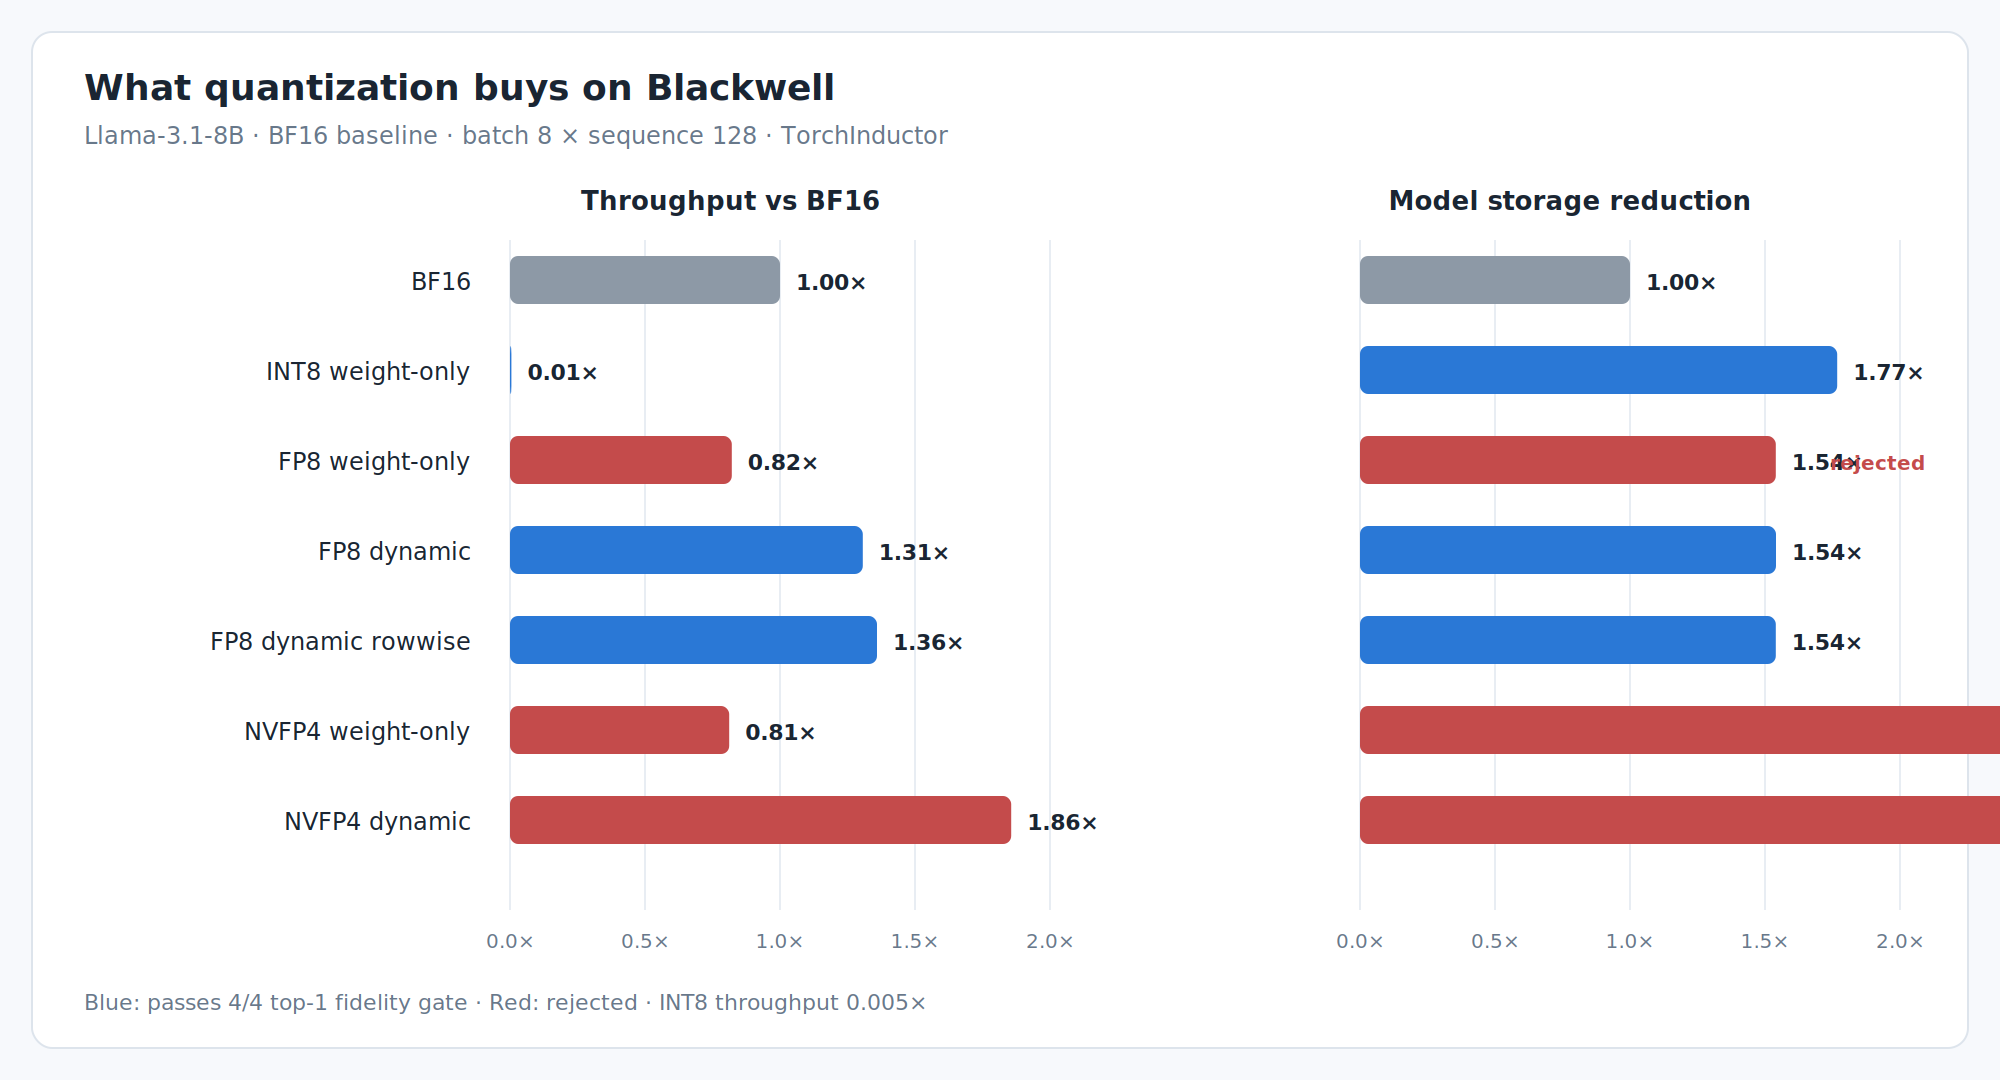
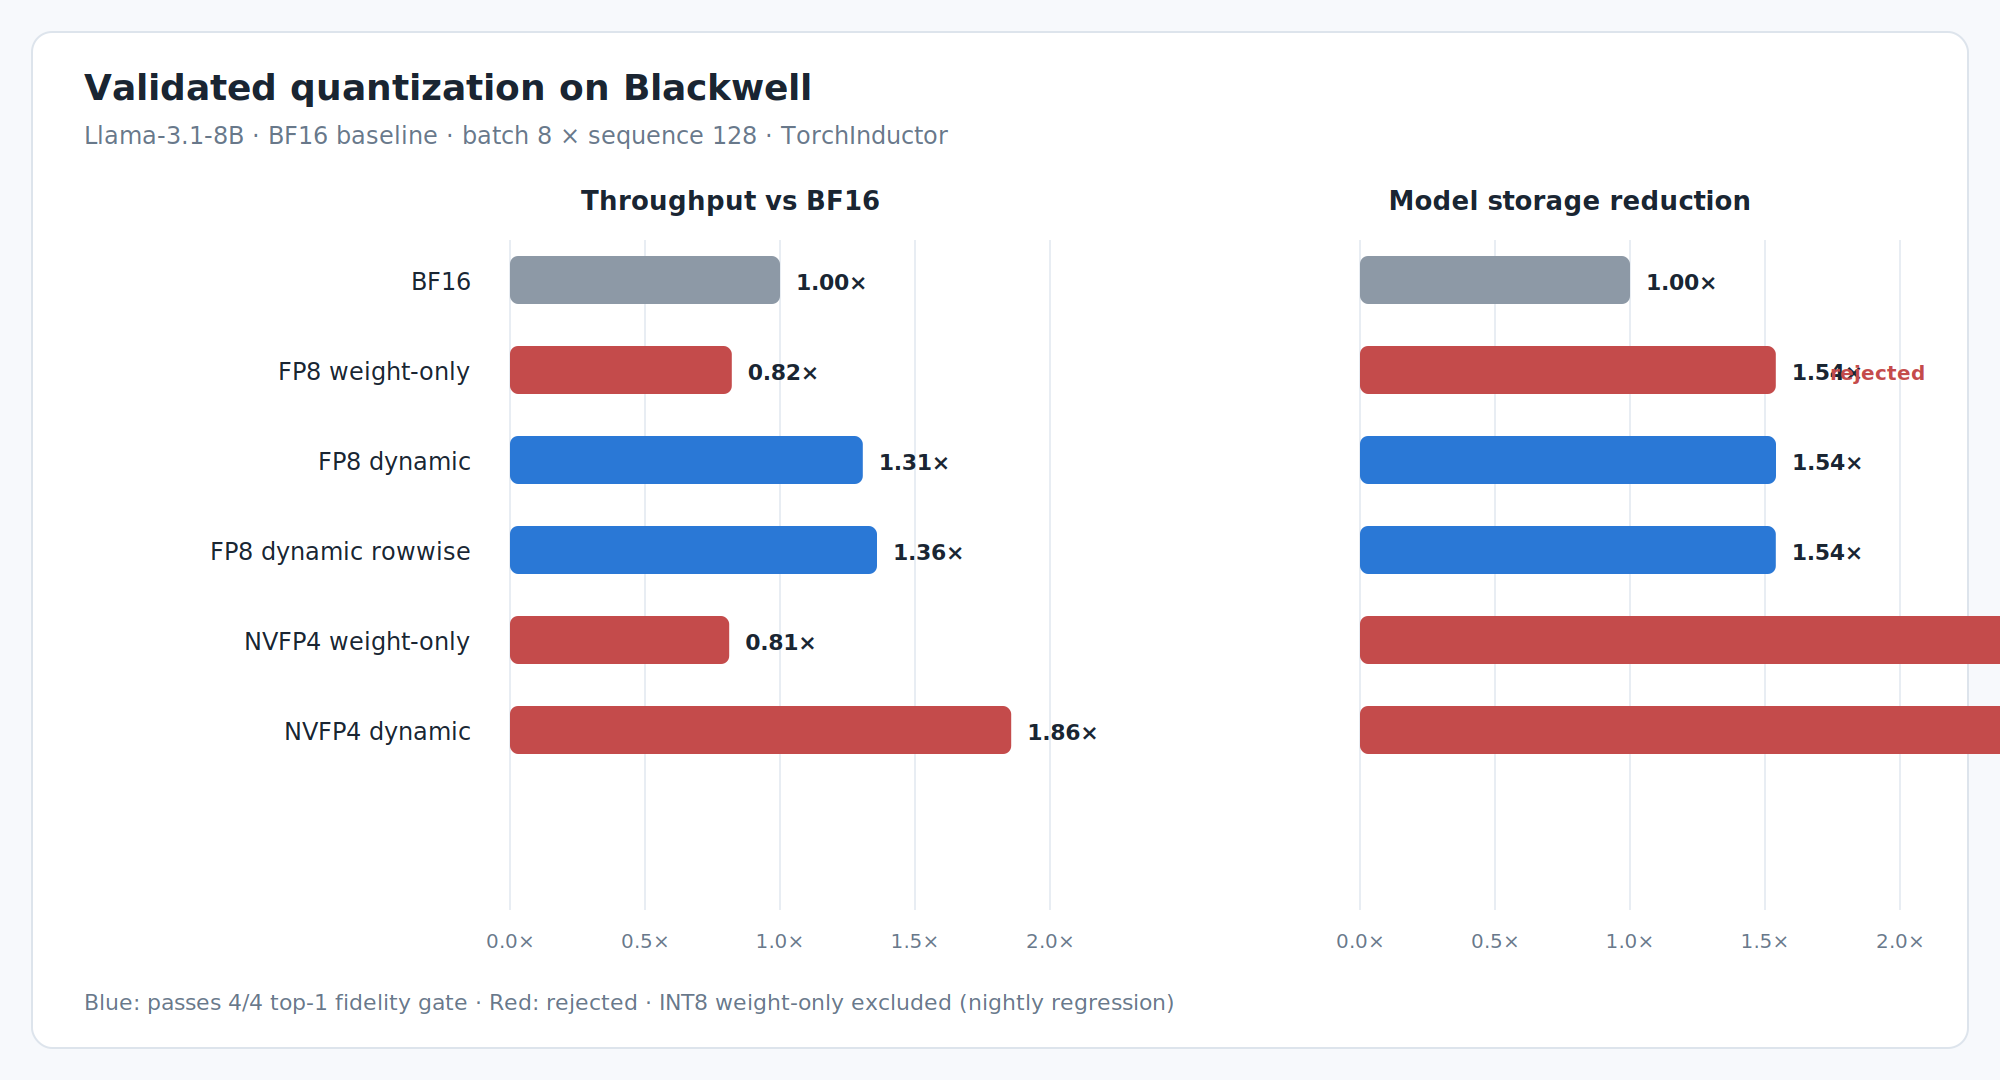
Fix Blackwell INT8 quantization path

diff --git a/src/lm7/huggingface.py b/src/lm7/huggingface.py
@@ -65,6 +65,7 @@ DEFAULT_DECODE_SHAPE = "dynamic"
 _MINIMUM_DYNAMIC_CACHE_LEN = 4
 
 INT8 = "int8"
+INT8_DYNAMIC = "int8-dynamic"
 FP8 = "fp8"
 NVFP4 = "nvfp4"
 WEIGHT_ONLY_QUANTIZATIONS = frozenset({INT8, FP8, NVFP4})
@@ -87,7 +88,9 @@ NVFP4_DYNAMIC = "nvfp4-dynamic"
 # aliases below record: an existing command must keep doing what it did. Which
 # one is better is a measurement, not a default -- see docs/quantization.md.
 FP8_DYNAMIC_ROWWISE = "fp8-dynamic-rowwise"
-DYNAMIC_ACTIVATION_QUANTIZATIONS = frozenset({FP8_DYNAMIC, FP8_DYNAMIC_ROWWISE, NVFP4_DYNAMIC})
+DYNAMIC_ACTIVATION_QUANTIZATIONS = frozenset(
+    {INT8_DYNAMIC, FP8_DYNAMIC, FP8_DYNAMIC_ROWWISE, NVFP4_DYNAMIC}
+)
 NO_QUANTIZATION = "none"
 
 # The pre-0.2 spellings, plus explicit long forms for the weight-only modes. The
@@ -96,12 +99,14 @@ NO_QUANTIZATION = "none"
 # change what an existing command does.
 QUANTIZATION_ALIASES: dict[str, str] = {
     "int8-weight-only": INT8,
+    "int8-dynamic-activation-int8-weight": INT8_DYNAMIC,
     "fp8-weight-only": FP8,
     "nvfp4-weight-only": NVFP4,
 }
 
 _QUANTIZATION_LABELS = {
-    INT8: "INT8",
+    INT8: "INT8 weight-only",
+    INT8_DYNAMIC: "INT8 dynamic activation + INT8 weight",
     FP8: "FP8",
     NVFP4: "NVFP4",
     FP8_DYNAMIC: "FP8 dynamic activation + FP8 weight, per-tensor scales",
@@ -132,6 +137,7 @@ _QUANTIZATION_LABELS = {
 # See docs/amd-mi300x.md.
 _QUANTIZATION_VENDORS = {
     INT8: frozenset({"nvidia", "cpu"}),
+    INT8_DYNAMIC: frozenset({"nvidia"}),
     FP8: frozenset({"nvidia", "amd"}),
     NVFP4: frozenset({"nvidia"}),
     FP8_DYNAMIC: frozenset({"nvidia", "amd"}),
@@ -141,6 +147,7 @@ _QUANTIZATION_VENDORS = {
 
 _QUANTIZATION_VENDOR_TEXT = {
     INT8: "detected NVIDIA GPUs and CPU targets",
+    INT8_DYNAMIC: "detected NVIDIA GPUs",
     FP8: "detected NVIDIA and AMD GPUs",
     NVFP4: "detected NVIDIA GPUs",
     FP8_DYNAMIC: "detected NVIDIA and AMD GPUs",
@@ -1309,6 +1316,8 @@ def _apply_quantization(
 def _quantization_config(torchao_quantization: ModuleType, quantization: str) -> Any:
     if quantization == FP8:
         return torchao_quantization.Float8WeightOnlyConfig(version=2)
+    if quantization == INT8_DYNAMIC:
+        return torchao_quantization.Int8DynamicActivationInt8WeightConfig(version=2)
     if quantization == NVFP4:
         return _load_torchao_nvfp4().NVFP4WeightOnlyConfig()
     if quantization == FP8_DYNAMIC:
@@ -1378,6 +1387,7 @@ def _is_nvfp4_quantizable_linear(module: torch.nn.Module, fqn: str) -> bool:
 # pair incomparable, and the comparison is the point.
 _QUANTIZATION_FILTERS = {
     INT8: _is_quantizable_linear,
+    INT8_DYNAMIC: _is_quantizable_linear,
     FP8: _is_fp8_quantizable_linear,
     NVFP4: _is_nvfp4_quantizable_linear,
     FP8_DYNAMIC: _is_fp8_quantizable_linear,
@@ -1387,6 +1397,7 @@ _QUANTIZATION_FILTERS = {
 
 _QUANTIZATION_SELECTS = {
     INT8: "every linear except lm_head",
+    INT8_DYNAMIC: "every linear except lm_head",
     FP8: "linears whose module path contains '.mlp.'",
     NVFP4: "every linear except lm_head whose last two dimensions are multiples of 16",
     FP8_DYNAMIC: "linears whose module path contains '.mlp.'",

diff --git a/tests/test_quantization_policy.py b/tests/test_quantization_policy.py
@@ -12,6 +12,7 @@ from lm7.huggingface import (
     FP8_DYNAMIC,
     FP8_DYNAMIC_ROWWISE,
     INT8,
+    INT8_DYNAMIC,
     NVFP4,
     NVFP4_DYNAMIC,
     VALIDATED_ACTIVATION,
@@ -113,7 +114,9 @@ def test_unknown_quantization_lists_the_short_names():
     """The list names both families, so a reader sees that activation modes exist."""
     with pytest.raises(
         UnsupportedModelError,
-        match="none, fp8, fp8-dynamic, fp8-dynamic-rowwise, int8, nvfp4, nvfp4-dynamic",
+        match=(
+            "none, fp8, fp8-dynamic, fp8-dynamic-rowwise, int8, int8-dynamic, nvfp4, nvfp4-dynamic"
+        ),
     ):
         validate("HuggingFaceTB/SmolLM2-135M-Instruct", "int4")
 
@@ -184,13 +187,15 @@ def test_dynamic_modes_are_separate_from_weight_only_ones():
     assert NVFP4 in WEIGHT_ONLY_QUANTIZATIONS
     assert NVFP4 not in DYNAMIC_ACTIVATION_QUANTIZATIONS
     assert DYNAMIC_ACTIVATION_QUANTIZATIONS == frozenset(
-        {FP8_DYNAMIC, FP8_DYNAMIC_ROWWISE, NVFP4_DYNAMIC}
+        {INT8_DYNAMIC, FP8_DYNAMIC, FP8_DYNAMIC_ROWWISE, NVFP4_DYNAMIC}
     )
     # The same rule applied again: adding per-row scaling under the existing
     # `fp8-dynamic` name would have changed what that command computes, so it is
     # a mode of its own and `fp8-dynamic` still means per-tensor.
     assert FP8 in WEIGHT_ONLY_QUANTIZATIONS
     assert FP8_DYNAMIC_ROWWISE not in WEIGHT_ONLY_QUANTIZATIONS
+    assert INT8 in WEIGHT_ONLY_QUANTIZATIONS
+    assert INT8_DYNAMIC not in WEIGHT_ONLY_QUANTIZATIONS
 
 
 def test_nvfp4_dynamic_needs_blackwell_but_weight_only_does_not():
@@ -263,6 +268,26 @@ def test_fp8_granularity_is_reported_per_mode():
     assert fp8_scale_granularity(FP8_DYNAMIC_ROWWISE) == "per-row"
     assert fp8_scale_granularity(FP8) is None
     assert fp8_scale_granularity(INT8) is None
+
+
+def test_int8_dynamic_requests_native_int8_matmul_config():
+    """INT8 dynamic quantizes both operands; the old int8 mode remains weight-only."""
+    from lm7.huggingface import _quantization_config
+
+    class _Recorder:
+        def Int8DynamicActivationInt8WeightConfig(self, **kwargs: object):
+            return ("dynamic-int8", kwargs)
+
+    assert _quantization_config(_Recorder(), INT8_DYNAMIC) == (
+        "dynamic-int8",
+        {"version": 2},
+    )
+
+
+def test_int8_dynamic_is_not_admitted_without_hardware_fidelity_evidence():
+    assert all(INT8_DYNAMIC not in modes for modes in VALIDATED_ACTIVATION.values())
+    with pytest.raises(UnsupportedModelError, match="not validated"):
+        validate("unsloth/Llama-3.1-8B-Instruct", INT8_DYNAMIC)
 
 
 def test_fp8_dynamic_rowwise_requests_per_row_granularity():

diff --git a/docs/figures/blackwell_quantization.py b/docs/figures/blackwell_quantization.py
@@ -5,7 +5,6 @@ from xml.sax.saxutils import escape
 
 ROWS = [
     ("BF16", 46.8431, 16.0605, "accepted"),
-    ("INT8 weight-only", 8997.056, 9.0853, "accepted"),
     ("FP8 weight-only", 57.0100, 10.4276, "rejected"),
     ("FP8 dynamic", 35.8532, 10.4234, "accepted"),
     ("FP8 dynamic rowwise", 34.4706, 10.4276, "accepted"),
@@ -31,7 +30,7 @@ def render():
         f'<svg xmlns="http://www.w3.org/2000/svg" width="{WIDTH}" height="{HEIGHT}" viewBox="0 0 {WIDTH} {HEIGHT}">',
         '<rect width="1000" height="540" fill="#f7f9fc"/>',
         '<rect x="16" y="16" width="968" height="508" rx="10" fill="#fff" stroke="#dde4ec"/>',
-        text(42, 50, "What quantization buys on Blackwell", 18, INK, "650"),
+        text(42, 50, "Validated quantization on Blackwell", 18, INK, "650"),
         text(
             42,
             72,
@@ -91,7 +90,8 @@ def render():
             text(
                 42,
                 505,
-                "Blue: passes 4/4 top-1 fidelity gate · Red: rejected · INT8 throughput 0.005×",
+                "Blue: passes 4/4 top-1 fidelity gate · Red: rejected · "
+                "INT8 weight-only excluded (nightly regression)",
                 11,
                 MUTED,
             ),
@@ -104,7 +104,7 @@ def render():
 def main():
     here = Path(__file__).parent
     svg = here / "blackwell-quantization.svg"
-    svg.write_text(render(), encoding="utf-8")
+    svg.write_text(render(), encoding="utf-8", newline="\n")
     try:
         import cairosvg
     except (ImportError, OSError):

diff --git a/benchmarks/quantization.py b/benchmarks/quantization.py
@@ -37,6 +37,7 @@ from lm7.detection import resolve_target, synchronize
 from lm7.huggingface import (
     FP8_DYNAMIC,
     FP8_DYNAMIC_ROWWISE,
+    INT8_DYNAMIC,
     NO_QUANTIZATION,
     NVFP4_DYNAMIC,
     _apply_quantization,
@@ -83,7 +84,16 @@ PROMPTS = (
 # The dynamic modes quantize activations too, so the matmul runs in the narrow
 # format instead of dequantizing to BF16 first -- the only family here that can
 # cut arithmetic rather than only bytes moved.
-MODES = ("none", "int8", "fp8", "nvfp4", FP8_DYNAMIC, FP8_DYNAMIC_ROWWISE, NVFP4_DYNAMIC)
+MODES = (
+    "none",
+    "int8",
+    INT8_DYNAMIC,
+    "fp8",
+    "nvfp4",
+    FP8_DYNAMIC,
+    FP8_DYNAMIC_ROWWISE,
+    NVFP4_DYNAMIC,
+)
 
 
 def _dtype(name: str) -> torch.dtype:

diff --git a/src/lm7/cli.py b/src/lm7/cli.py
@@ -544,6 +544,7 @@ def _build_parser() -> argparse.ArgumentParser:
         choices=(
             "none",
             "int8",
+            "int8-dynamic",
             "fp8",
             "nvfp4",
             "fp8-dynamic",
@@ -566,12 +567,14 @@ def _build_parser() -> argparse.ArgumentParser:
         choices=(
             "none",
             "int8",
+            "int8-dynamic",
             "fp8",
             "nvfp4",
             "fp8-dynamic",
             "fp8-dynamic-rowwise",
             "nvfp4-dynamic",
             "int8-weight-only",
+            "int8-dynamic-activation-int8-weight",
             "fp8-weight-only",
             "nvfp4-weight-only",
         ),

diff --git a/notes/blackwell-quantization-figure.md b/notes/blackwell-quantization-figure.md
@@ -122,7 +122,7 @@ Transformers 5.15.0 and PyTorch 2.15.0.dev20260816+cu130. This is newer than
 the 2.13.0 stack in the earlier Blackwell report and must be stated beside any
 comparison.
 
-![Two-panel bar chart showing throughput and model-storage reduction for seven quantization modes on Llama-3.1-8B. Dynamic FP8 passes fidelity and improves throughput; dynamic NVFP4 is faster and smaller but rejected by the fidelity gate.](../docs/figures/blackwell-quantization.png)
+![Two-panel bar chart showing throughput and model-storage reduction for the validated and rejected FP8/NVFP4 modes on Llama-3.1-8B. Dynamic FP8 passes fidelity and improves throughput; dynamic NVFP4 is faster and smaller but rejected by the fidelity gate.](../docs/figures/blackwell-quantization.png)
 
 The selected workload was batch 8, sequence 128, BF16 input/output, through LM7
 and TorchInductor. Input IDs repeat the tokens for "The capital of France is";
@@ -133,6 +133,13 @@ quality workload.
 | --- | ---: | ---: | ---: | ---: | ---: | --- |
 | BF16 | 46.84 ms | 1.00x | 16.06 GB | 1.00x | — | baseline |
 | INT8 weight-only | 8997.06 ms | 0.005x | 9.09 GB | 1.77x | 224 | prior 4/4 |
+
+> [!WARNING]
+> This INT8 row is retained as diagnostic evidence but excluded from the headline
+> figure. LM7 `int8` is weight-only, leaving BF16 activations and dequantizing
+> weights around the matmul. On this PyTorch 2.15 nightly stack that path regressed
+> to 0.005x throughput. The follow-up `int8-dynamic` mode quantizes both operands
+> and stays behind the hardware-validation gate until it is remeasured.
 | FP8 weight-only | 57.01 ms | 0.82x | 10.43 GB | 1.54x | 96 | prior 3/4, rejected |
 | FP8 dynamic | 35.85 ms | **1.31x** | 10.42 GB | 1.54x | 96 | **4/4**, diff 0.83 |
 | FP8 dynamic rowwise | 34.47 ms | **1.36x** | 10.43 GB | 1.54x | 96 | **4/4**, diff 0.70 |

diff --git a/docs/quantization.md b/docs/quantization.md
@@ -34,11 +34,18 @@ Bare names are weight-only. The `-dynamic` names quantize activations too.
 | --- | --- | --- | --- | --- |
 | `none` (default) | as loaded | — | all | FP32 / FP16 / BF16 |
 | `int8` | INT8 | BF16 | NVIDIA Ampere (`sm80`) or newer, **CPU** | BF16 on NVIDIA, FP32 on CPU |
+| `int8-dynamic` | INT8 | **INT8, quantized per call** | NVIDIA Ampere (`sm80`) or newer | BF16 accumulate |
 | `fp8` | FP8 | BF16 | NVIDIA Ada (`sm89`), Hopper (`sm90`), or newer | BF16 |
 | `nvfp4` | NVFP4 — 4-bit, one FP8 scale per 16 values | BF16 | NVIDIA Ampere (`sm80`) or newer | BF16 |
 | `fp8-dynamic` | FP8 | **FP8, quantized per call**, one scale per tensor | NVIDIA Ada (`sm89`) or newer | BF16 accumulate |
 | `fp8-dynamic-rowwise` | FP8 | **FP8, quantized per call**, one scale per row | NVIDIA Ada (`sm89`) or newer | BF16 accumulate |
 | `nvfp4-dynamic` | NVFP4 | **NVFP4, quantized per call** | NVIDIA **Blackwell** (`sm100`, `sm120`) | BF16 accumulate |
+
+`int8-dynamic` fixes the operand mismatch in the weight-only path: it uses
+TorchAO's `Int8DynamicActivationInt8WeightConfig(version=2)` so the compiled
+matmul receives INT8 activations and INT8 weights. It remains outside the
+validated-model allowlist until its fidelity and generated kernels are measured
+on real hardware.
 
 The two FP8 dynamic rows differ only in scale granularity, and the difference is
 worth a mode of its own because it is not visible from the call site: TorchAO's
